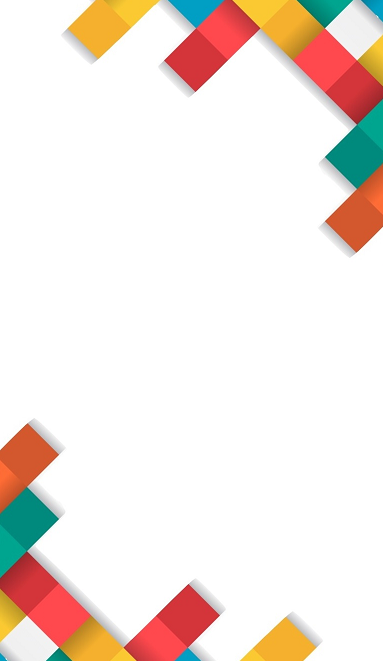
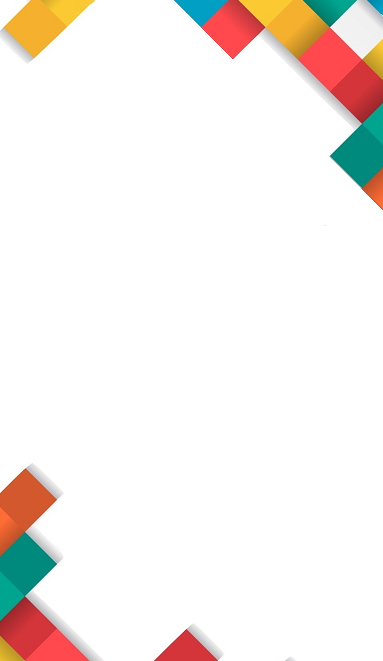
modificacion de la estructura responsive version mobile del registro

diff --git a/front/invited/styles.css b/front/invited/styles.css
@@ -3,6 +3,7 @@
     --main-text-color: #888;
     --button-text-color: #f6f6f6;
     --placeholder-color:#c3c3c3;
+    --footer-color:#2a2a2a;
     --button-color: linear-gradient(#FDC830, #ea5b0c);
     --font:'Roboto', sans-serif;
 }
@@ -26,17 +27,21 @@ body {
 
 .container {
     min-height: 100vh;
-    padding: 3em 3em 2em;
+    padding: 3em 3em 1em;
     display: grid;
     grid-template-columns: 1fr;
-    grid-template-rows: .3fr 2.5fr .2fr;
+    grid-template-rows: .1fr 2fr .1fr;
     grid-template-areas: 
         "logo"
         "form"
         "footer";
-    grid-gap: .5rem;
+    grid-gap: .8rem;
 
     background-color: #fff;
+    background-image: url(../image/background-mobile.png);
+    background-repeat: no-repeat;
+    background-size: 100% 100%;
+    background-attachment: fixed;
 }
 
 /* Estilos del logotipo y titulo */
@@ -46,17 +51,11 @@ body {
     flex-direction: column;
     justify-content: center;
     align-items: center;
+    margin-top: 10px;
 }
 
 .logo {
-    width: 110px;
-}
-
-.title {
-    font-size: .7em;
-    font-weight: 700;
-
-    color: #444;
+    width: 130px;
 }
 
 /* Estilos del texto informativo */
@@ -71,35 +70,59 @@ body {
 
 .form-header {
     display: flex;
-    justify-content: space-between;
-    margin-bottom: .5em;
+    justify-content: center;
+    align-items: center;
+    margin: 15px 0;
 }
 
-.form-header > a {
-    text-decoration: none;
-    font-weight: 400;
+.form-header > button {
+    width: 70px;
+    height: 1.6em;
+    margin-left: 7px;
+    font-family: var(--font);
+    text-transform: uppercase;
+    border: 2px solid transparent;
+    outline: none;
     cursor: pointer;
 
-    color: var(--form-text-color);
+    color: var(--main-text-color);
+    background-color: transparent;
+}
+
+.separator {
+    font-size: .8em;
+    margin-left: 7px;
 }
 
 .form-box.register .show-register {
+    width: 80px;
+    font-weight: 400;
+    border-image: linear-gradient(to left, #FDC830, #ea5b0c);
+    border-image-slice: 1;
+
     background-image: linear-gradient(to left, #FDC830, #ea5b0c);
     -webkit-background-clip: text;
     -webkit-text-fill-color: transparent;
+    box-shadow: 4px 5px 5px -4px rgba(25, 25, 25, 0.5);
 }
 
 .form-box.query .show-query {
+    width: 80px;
+    font-weight: 400;
+    border-image: linear-gradient(to left, #FDC830, #ea5b0c);
+    border-image-slice: 1;
+
     background-image: linear-gradient(to left, #FDC830, #ea5b0c);
     -webkit-background-clip: text;
     -webkit-text-fill-color: transparent;
+    box-shadow: 4px 5px 5px -4px rgba(25, 25, 25, 0.5);
 }
 
 .form-elements {
     height: 100%;;
     display: grid;
     grid-template-columns: repeat(2, 1fr);
-    grid-template-rows: .5fr repeat(6, .8fr);
+    grid-template-rows: .05fr repeat(6, .14fr);
     grid-gap: .5em;
 }
 
@@ -157,7 +180,7 @@ body {
 
 .form-element > input {
     width: 100%;
-    height: 1.8em;
+    height: 2em;
     padding-left: .8em;
     margin-top: 4px;
     font-size: 1em;
@@ -192,9 +215,11 @@ body {
 /* Estilos del footer*/
 .footer {
     grid-area: footer;
-    font-weight: 400;
+    font-size: .8em;
     text-align: center;
     align-self: flex-end;
+
+    color: var(--footer-color);
 }
 
 /* @media only screen and (min-width: 768px){
@@ -207,33 +232,4 @@ body {
             "information information form form";
     }
 
-} */
-
-
-/* .btn-header {
-    text-decoration: none;
-    position: relative;
-    font-weight: 400;
-
-    color: var(--main-text-color);
-}
-
-.btn-header::after {
-    content: "";
-    width: 0%;
-    height: 7px;
-    bottom: 0%;
-    left: 50%;
-    position: absolute;
-    border-radius: 10px;
-    transition: all 500ms ease;
-
-    background: #ea5b0c;
-    background: -webkit-linear-gradient(to left, #FDC830, #ea5b0c);
-    background: linear-gradient(to left, #FDC830, #ea5b0c);
-}
-
-.btn-header:hover::after {
-    left: 0;
-    width: 100%;
 } */

diff --git a/front/invited/index.html b/front/invited/index.html
@@ -11,18 +11,17 @@
 <body>
     <div class="container">
         <header class="logotype">
-            <img src="../image/clap2.png" alt="logotipo" class="logo">
-            <span class="title">Registro y verificación de pago</span>
+            <img src="../image/clap.png" alt="logotipo" class="logo">
         </header>
         <section class="information-text">
+            <span class="title">Registro y verificación de pago</span>
             <p class="text">Registrar tu pago garantiza una mejor gestión de entrega.</p>
         </section>
         <section class="form-box register">
             <div class="form-header">
-                <a href="#" class="show-register btn-header">Registrar</a>
-                <a href="#" class="show-query btn-header">Consultar</a>
-                <!-- <button type="button" class="show-register">Registrar</button>
-                <button type="button" class="show-query">Consultar</button> -->
+                <button type="button" class="show-register">Registrar</button>
+                <span class="separator">-o-</span>
+                <button type="button" class="show-query">Consultar</button>
             </div>
             <form action="" class="form-elements">
                 <h2 class="subtitle">Formulario de registro</h2>
